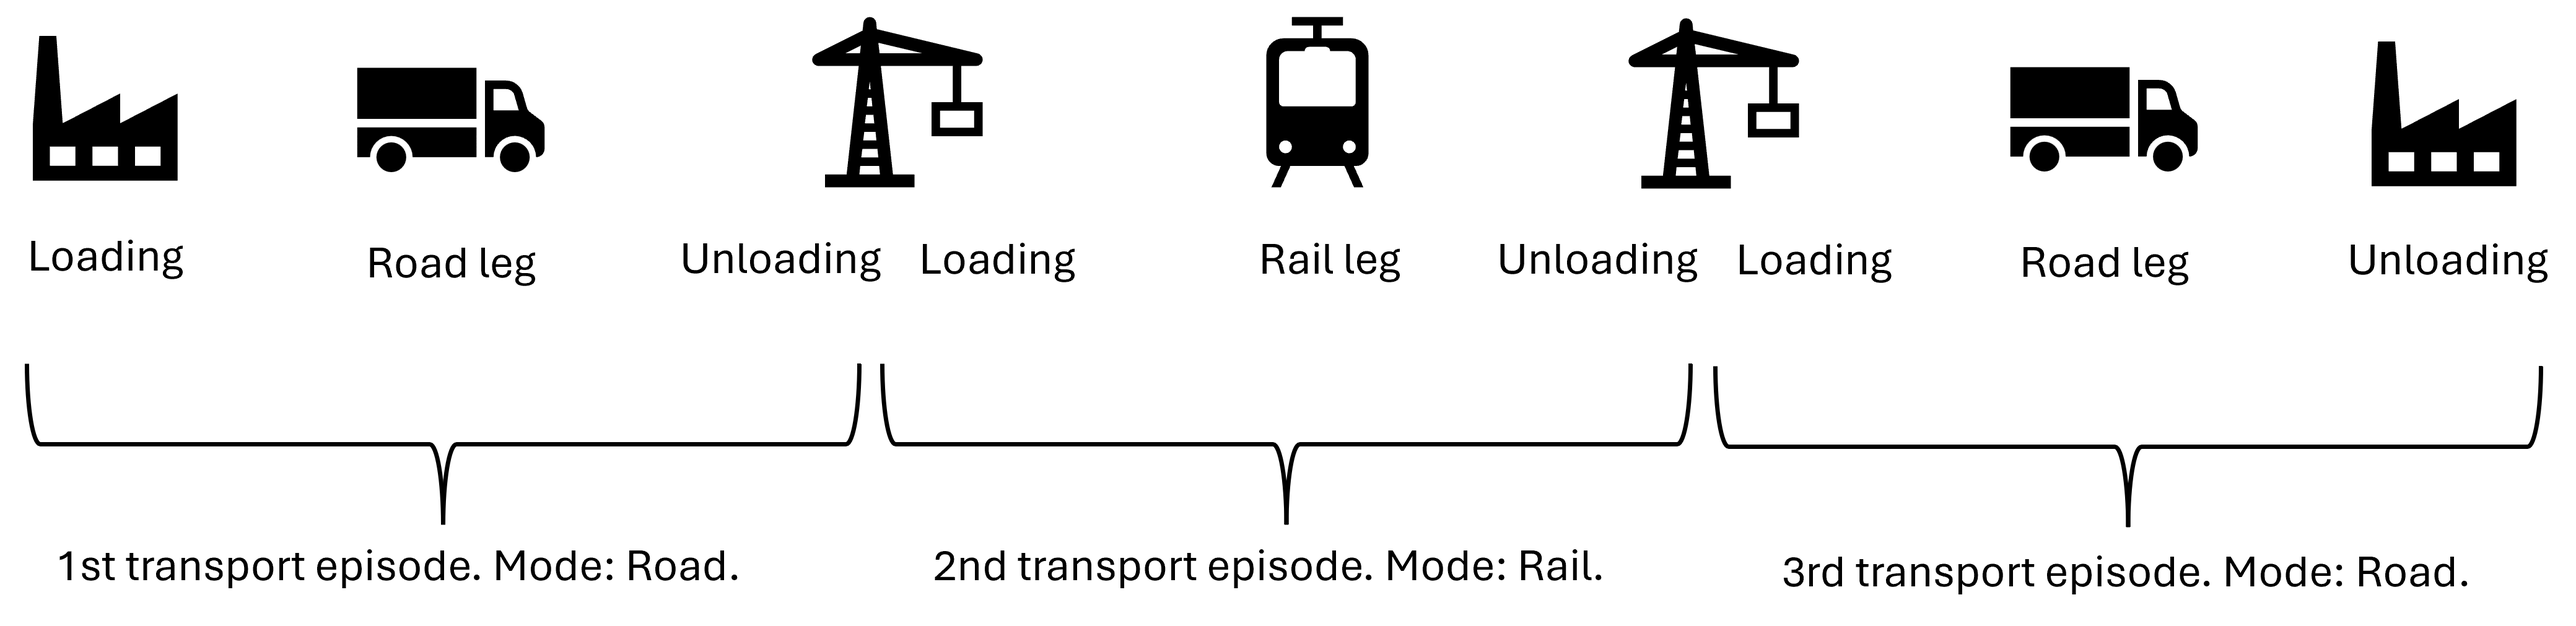
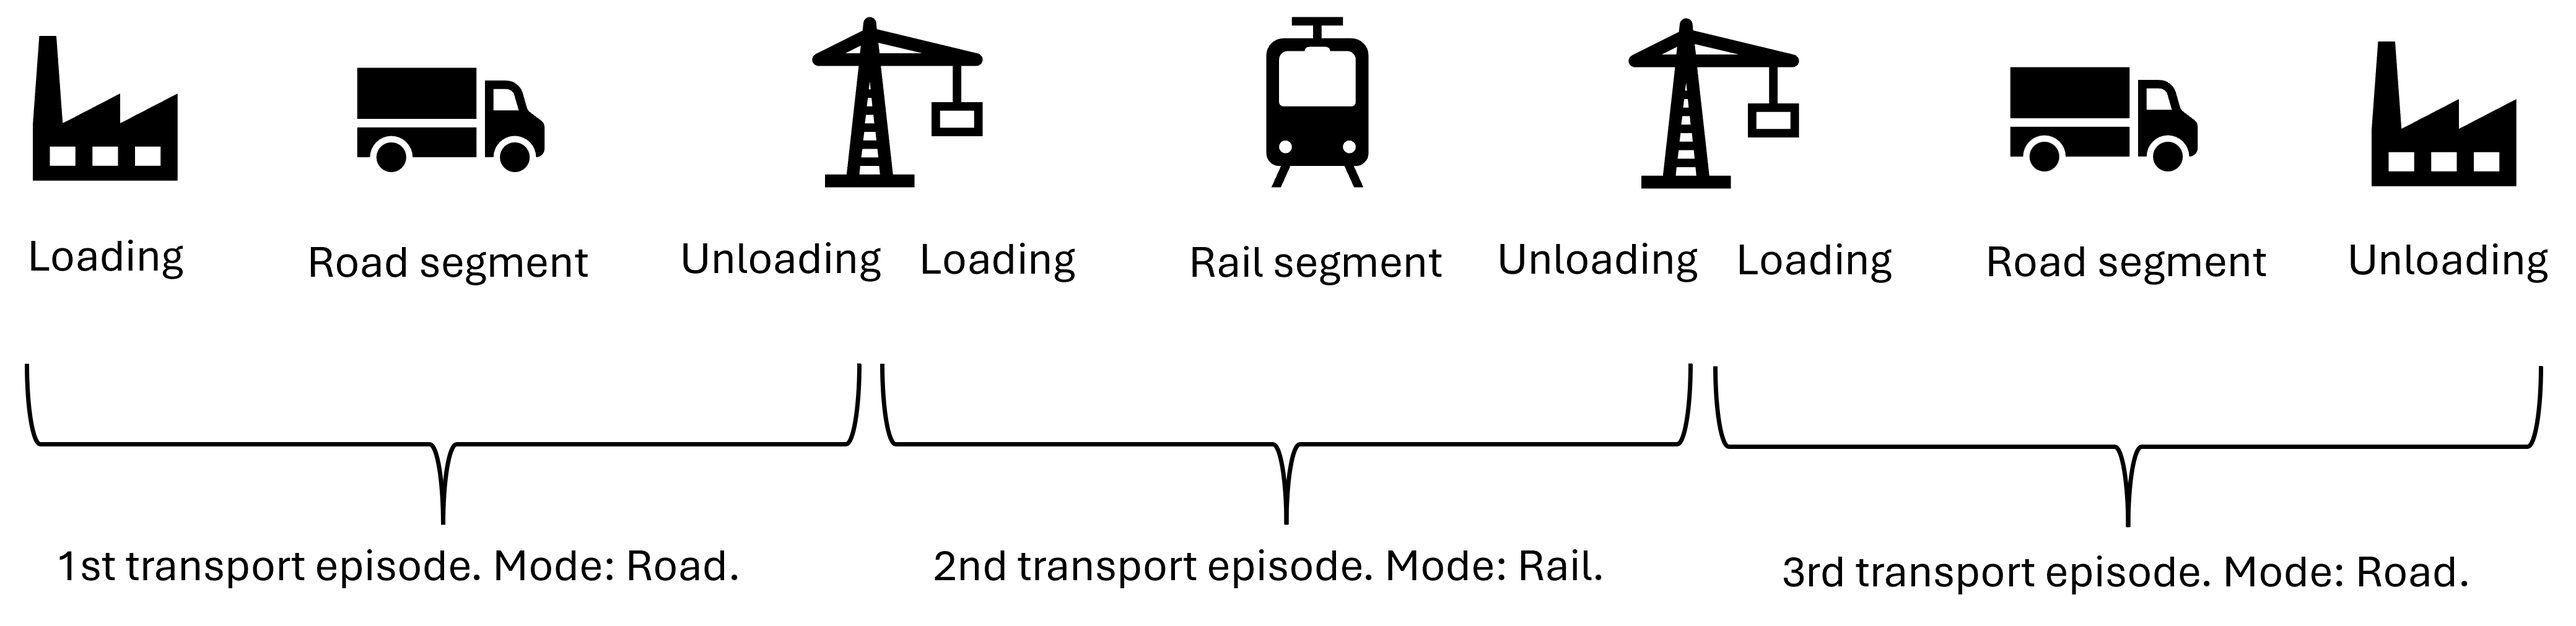
updated samgods docs

Changed region(s): [[0.7754, 0.3986, 0.8995, 0.4599], [0.1241, 0.3986, 0.2481, 0.4599], [0.4653, 0.3986, 0.5583, 0.4599]]

diff --git a/samgods/src/main/java/se/vti/samgods/logistics/ChainChoiReader.java b/samgods/src/main/java/se/vti/samgods/logistics/ChainChoiReader.java
@@ -228,8 +228,8 @@ public class ChainChoiReader extends AbstractTabularFileHandlerWithHeaderLine {
 		assert (segmentODs.size() == modes.size());
 
 		/*
-		 * Compose episodes from legs. The only case where an episode contains more than
-		 * one leg are rail legs in sequence.
+		 * Compose episodes from segments. The only case where an episode contains more than
+		 * one segment are rail segments in sequence with marshalling in between.
 		 */
 
 		if (segmentODs.size() > 0) {

diff --git a/samgods/docs/README.md b/samgods/docs/README.md
@@ -33,11 +33,21 @@ The program considers the transport modes *Road*, *Rail*, *Sea*. A *Ferry* mode 
 
 The program considers the same commodities as the Samgods production version: *Agriculture*, *Coal*, *Metal*, *Food*, *Textiles*, *Wood*, *Coke*, *Chemicals*, *Othermineral*, *Basicmetals*, *Machinery*, *Transport*, *Furniture*, *Secondaryraw*, *Timber*. The *Air* commodity is also encoded but not tested.
 
-Transport happens along *transport chains*, which are composed of *transport episodes*, which in turn may be composed of *transport legs*.
+Transport happens along *transport chains*, which are composed of *transport episodes*, which in turn may be composed of *transport segments*.
 
+*Transport chain* connects a producer (sender) to a consumer (receiver). It is defined by a *commodity*, if it uses *containers* or not, and by one or more *transport episodes*. Implemented in `se.vti.samgods.lgistics.TransportChain`.
+
+*Transport episodes* connects a producer or a terminal to a consumer or a terminal, using a unique *transport mode*. A *transport episode* is defined by (i) its parent *transport chain*, (ii) its *transport mode*, (iii) the transport segments it contains.
+
+The figure below illustrates a transport chain that consists of three transport episodes, using the modes Road/Rail/Road.
 ![](road-rail-road-chain.png)
 
+During a *Transport segment*, the load of a vehicle does not change. In the majority of cases, a *transport episode* consists of a single *transport segment*. This also holds when trucks or trains are moved on a ferry -- their load does not change. The only exception are rail segments with intermediate marshalling, where the waggons of a train may be reassembled into a new train. Here the content of a waggon does not change, but the train containing the waggon does.
+
+The figure below provides an example including a ferry and a marshalling episode:
 ![](road-rail-road-with-transfers-chain.png)
+
+All consolidation is modeled within transport segments (details further below) because this couples a unique vehicle configuration to a unique load, allowing to distribute the vehicle operation etc. cost over its load for the computation of transport prices.
 
 ---
 
